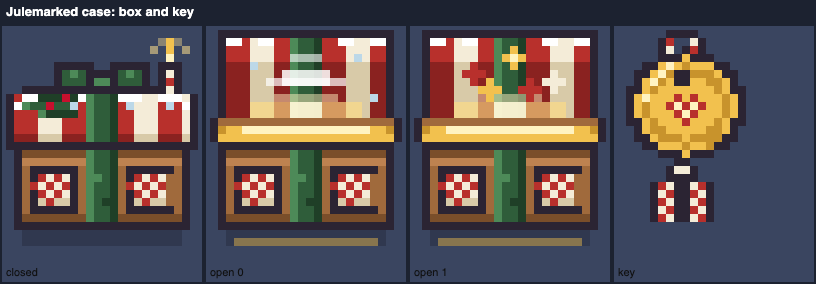
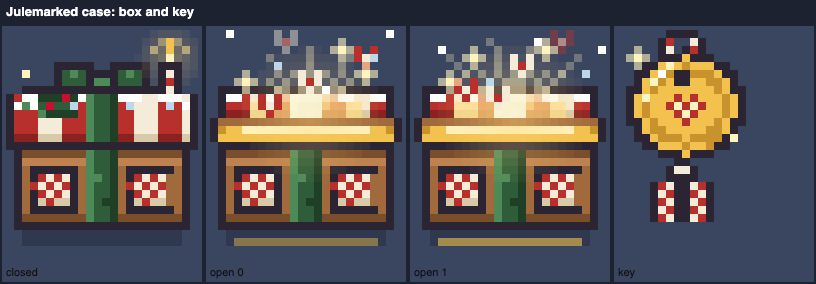
docs: refresh the Julemarked screenshots with the cooler case items

diff --git a/docs/pr-preview/julemarked/README.md b/docs/pr-preview/julemarked/README.md
@@ -1,6 +1,6 @@
 # Julemarked: screenshots
 
-Local browser captures (2D is the low graphics tier, 3D the high tier, in the voxel style). Everything is drawn in code, so these are renders of the real art modules and the real game.
+Local browser captures (2D is the low graphics tier, 3D the high tier, in the voxel style). Everything is drawn in code, so these are renders of the real art modules and the real game. The case items are deliberately flashier than the coin-stall items: animation, glow and bigger silhouettes, scaled by rarity.
 
 ### The town and the market
 
@@ -80,6 +80,26 @@ Local browser captures (2D is the low graphics tier, 3D the high tier, in the vo
 
 ![Case: chest and key, 2D](2d/case-box.png)
 
+**Case hats, standing then walking (animation frame)**
+
+![Case hats, standing then walking (animation frame), 2D](2d/case-walk-hat.png)
+
+**Case glasses, standing then walking**
+
+![Case glasses, standing then walking, 2D](2d/case-walk-glasses.png)
+
+**Case outfits, standing then walking**
+
+![Case outfits, standing then walking, 2D](2d/case-walk-outfit.png)
+
+**Case held items, standing then walking**
+
+![Case held items, standing then walking, 2D](2d/case-walk-held.png)
+
+**Case back items, standing then walking**
+
+![Case back items, standing then walking, 2D](2d/case-walk-back.png)
+
 **Stalls: held (Julegodter and Den varme bod)**
 
 ![Stalls: held (Julegodter and Den varme bod), 2D](2d/stall-held.png)
@@ -135,17 +155,25 @@ Local browser captures (2D is the low graphics tier, 3D the high tier, in the vo
 
 ![Case: pets, 3D](3d/case-pets.png)
 
-**Case: auras**
+**Case: pets, close-up**
 
-![Case: auras, 3D](3d/case-auras.png)
+![Case: pets, close-up, 3D](3d/case-pets-close.png)
+
+**Case: auras, at three moments**
+
+![Case: auras, at three moments, 3D](3d/case-auras.png)
 
 **Case: furniture**
 
 ![Case: furniture, 3D](3d/case-furniture.png)
 
-**Case: chest and key**
+**Case: furniture animating over time**
 
-![Case: chest and key, 3D](3d/case-chest.png)
+![Case: furniture animating over time, 3D](3d/case-furniture-animated.png)
+
+**Case: chest, open chest and key**
+
+![Case: chest, open chest and key, 3D](3d/case-chest.png)
 
 **Stalls: held**
 
